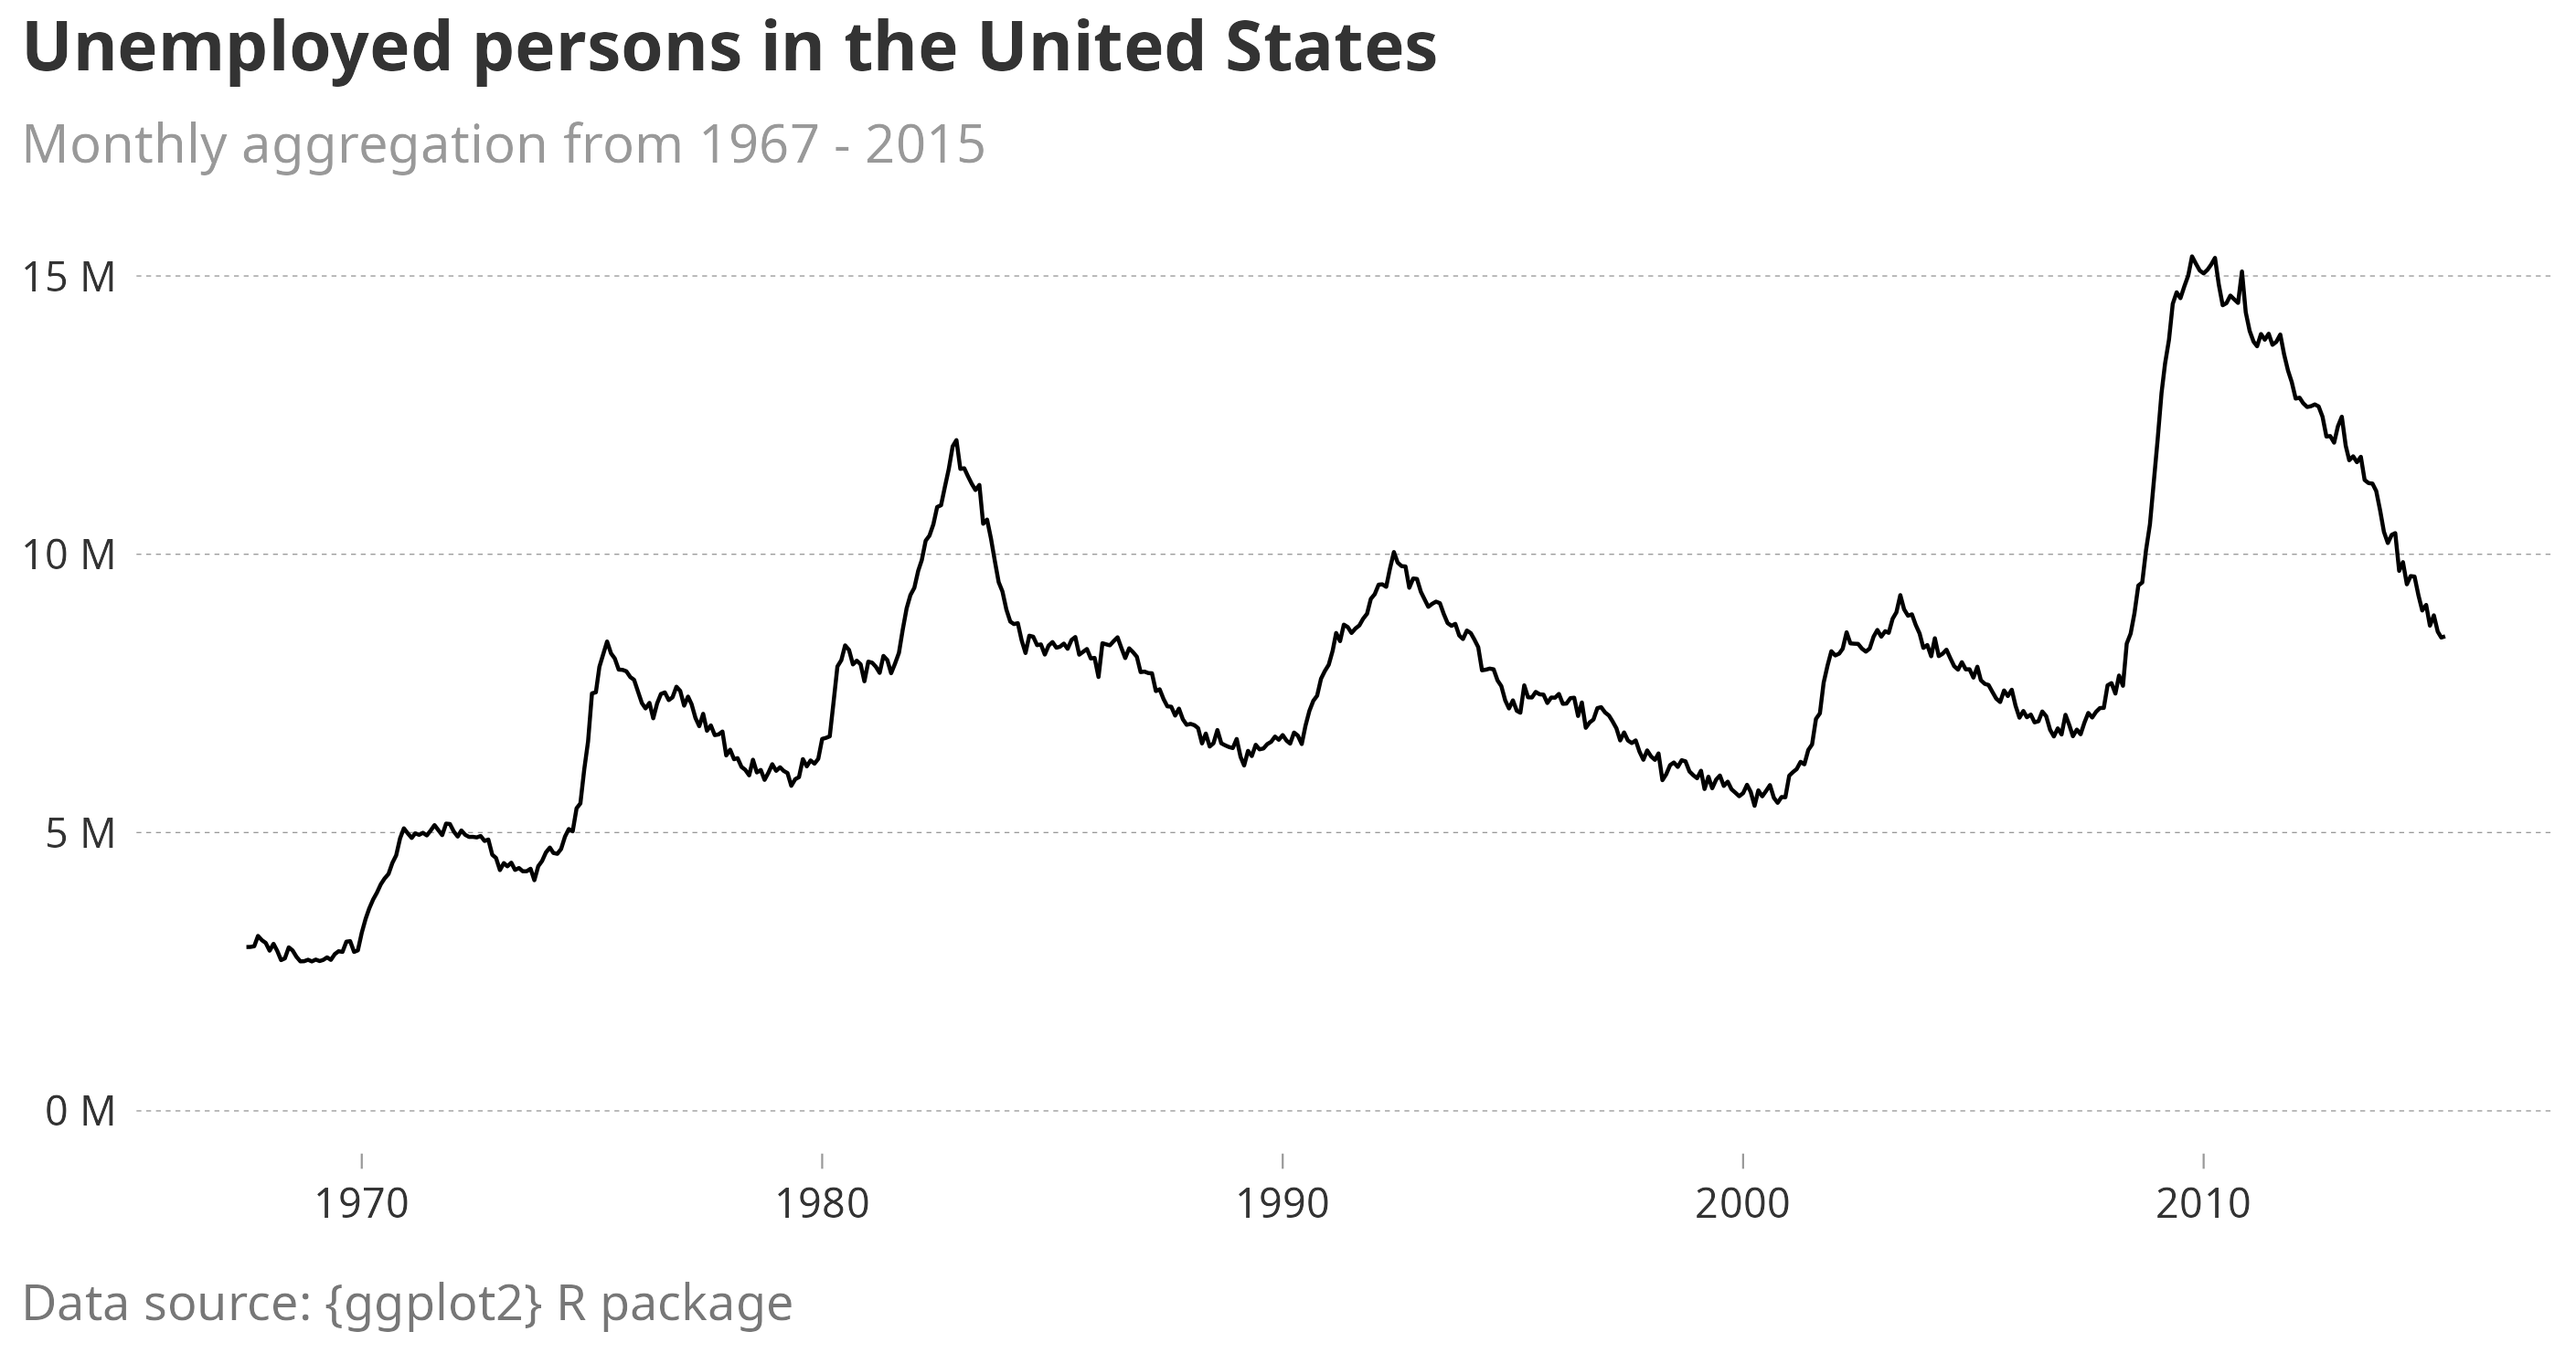
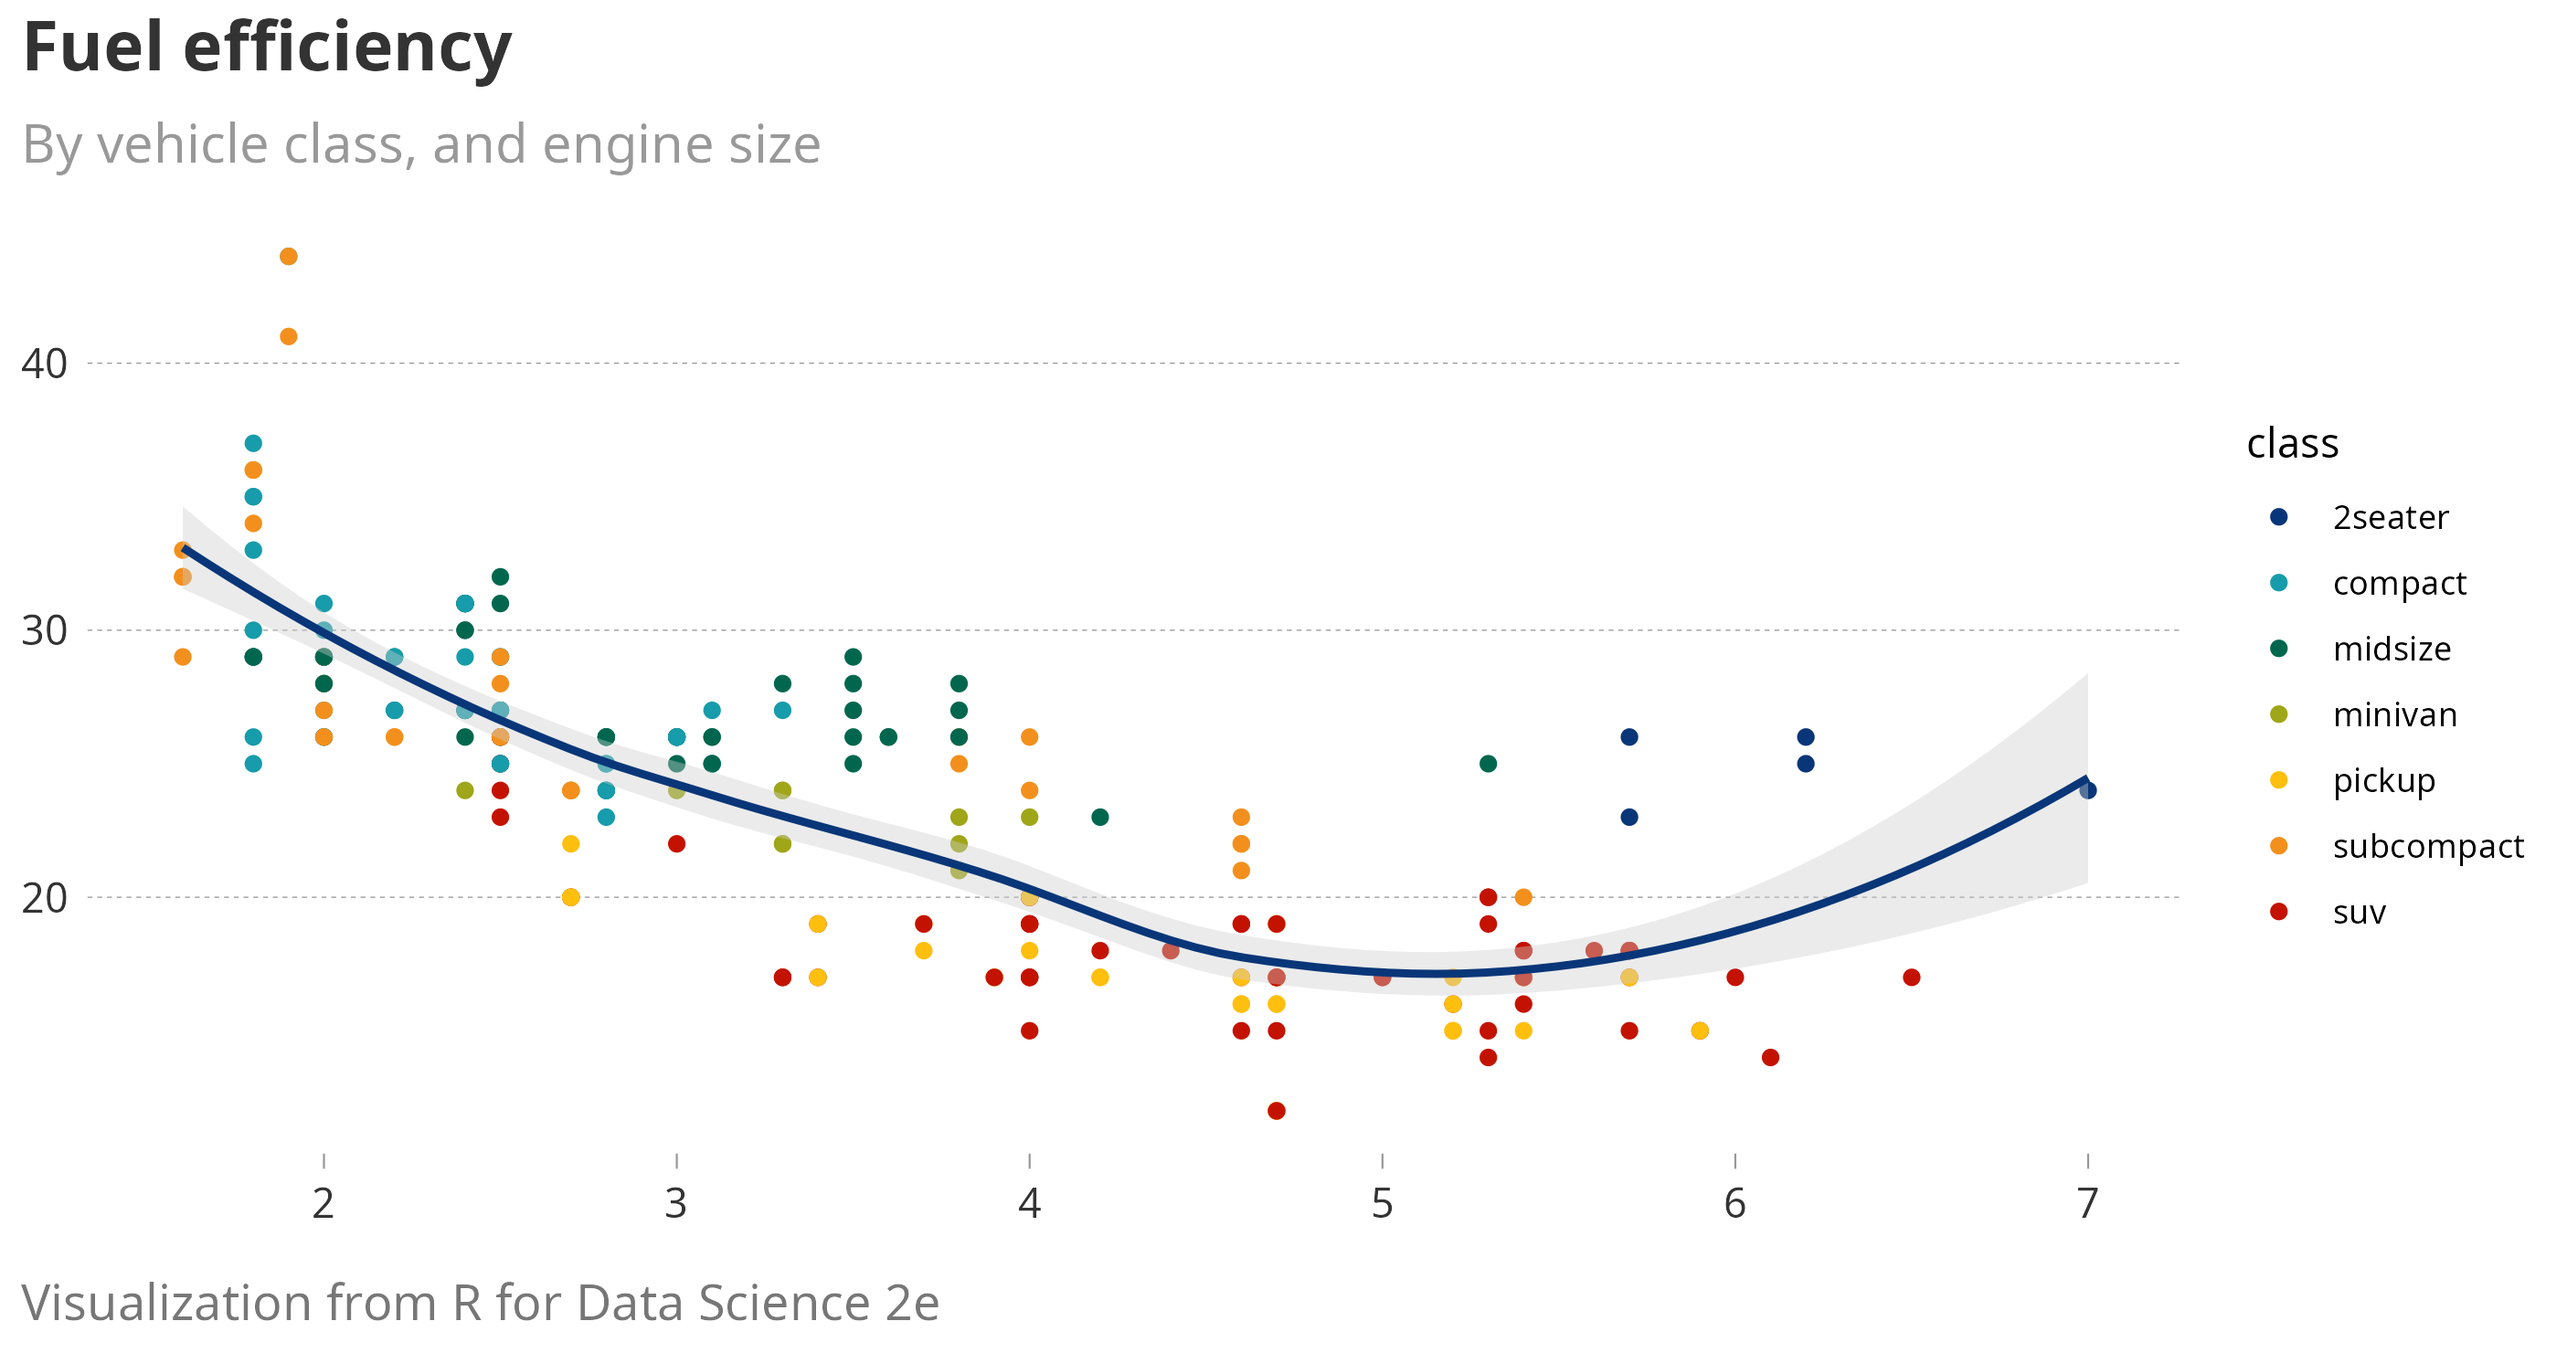
Updated example images

diff --git a/README.md b/README.md
@@ -28,3 +28,6 @@ mpg |>
 
 ![](./figures/plot-ex.png)
 
+Example 2:
+![](./figures/plot-ex2.png)
+
